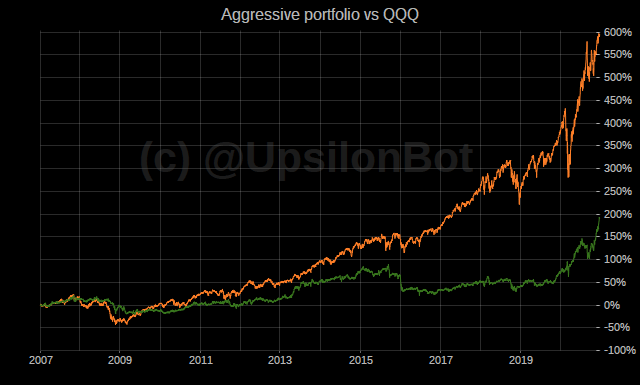
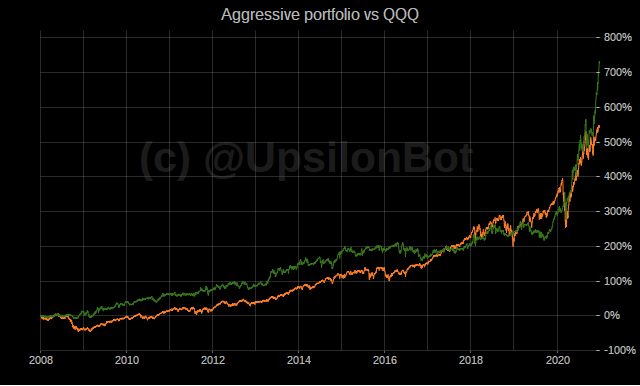
autoupdate 2020-12-29-13:48:46

diff --git a/tester/tester.py b/tester/tester.py
@@ -83,18 +83,18 @@ if __name__ == '__main__':
     # main()
     mp.set_start_method('spawn')
     q = mp.Queue()
-    # p1 = mp.Process(target=portfolio_tester, args=(10000, 'parking', -3, datetime.date(2007, 1, 1),))
+    # p1 = mp.Process(target=portfolio_tester, args=(10000, 'parking', -3, datetime.date(2008, 1, 1),))
     # p1.start()
     # p2 = mp.Process(target=portfolio_tester, args=(10000, 'allweather', -3, datetime.date(2008, 1, 1),))
     # p2.start()
-    # p3 = mp.Process(target=portfolio_tester, args=(10000, 'balanced', -3, datetime.date(2007, 1, 1),))
+    # p3 = mp.Process(target=portfolio_tester, args=(10000, 'balanced', -3, datetime.date(2008, 1, 1),))
     # p3.start()
-    p4 = mp.Process(target=portfolio_tester, args=(10000, 'aggressive', -3, datetime.date(2007, 1, 1),))
-    p4.start()
-    p5 = mp.Process(target=portfolio_tester, args=(10000, 'leveraged', -3, datetime.date(2007, 1, 1),))
+    # p4 = mp.Process(target=portfolio_tester, args=(10000, 'aggressive', -3, datetime.date(2008, 1, 1),))
+    # p4.start()
+    p5 = mp.Process(target=portfolio_tester, args=(10000, 'leveraged', -3, datetime.date(2008, 1, 1),))
     p5.start()
     # p1.join()
     # p2.join()
     # p3.join()
-    p4.join()
+    # p4.join()
     p5.join()

diff --git a/quotes/portfolios/rp_portfolio.py b/quotes/portfolios/rp_portfolio.py
@@ -206,9 +206,9 @@ class Selector:
                 exit()
         _rs_sharpe.dropna(inplace=True)
         _rs_sharpe.drop_duplicates(inplace=True)
-        print('%%%%%%%% before', _rs_sharpe.tail(2))
+        # print('%%%%%%%% before', _rs_sharpe.tail(2))
         sorting = _rs_sharpe.T.sort_values(_rs_sharpe.last_valid_index(), ascending=False).T
-        print('%%%%%%%% after', sorting.tail(2))
+        # print('%%%%%%%% after', sorting.tail(2))
         slicing = sorting.columns.tolist()
         tickers_to_allocator = slicing[:self.assets_to_hold]
         # print(tickers_to_allocator)
@@ -224,8 +224,9 @@ class Selector:
             momentum_df[col] = mom
         momentum_df.dropna(inplace=True)
         momentum_df.drop_duplicates(inplace=True)
+        print('%%%%%%%% after', momentum_df.tail(2))
         sorting = momentum_df.T.sort_values(momentum_df.last_valid_index(), ascending=False).T
-        # print('%%%%%%%% after', sorting.tail(2))
+        print('%%%%%%%% after', sorting.tail(2))
         slicing = sorting.columns.tolist()
         tickers_to_allocator = slicing[:self.assets_to_hold]
         # print(tickers_to_allocator)
